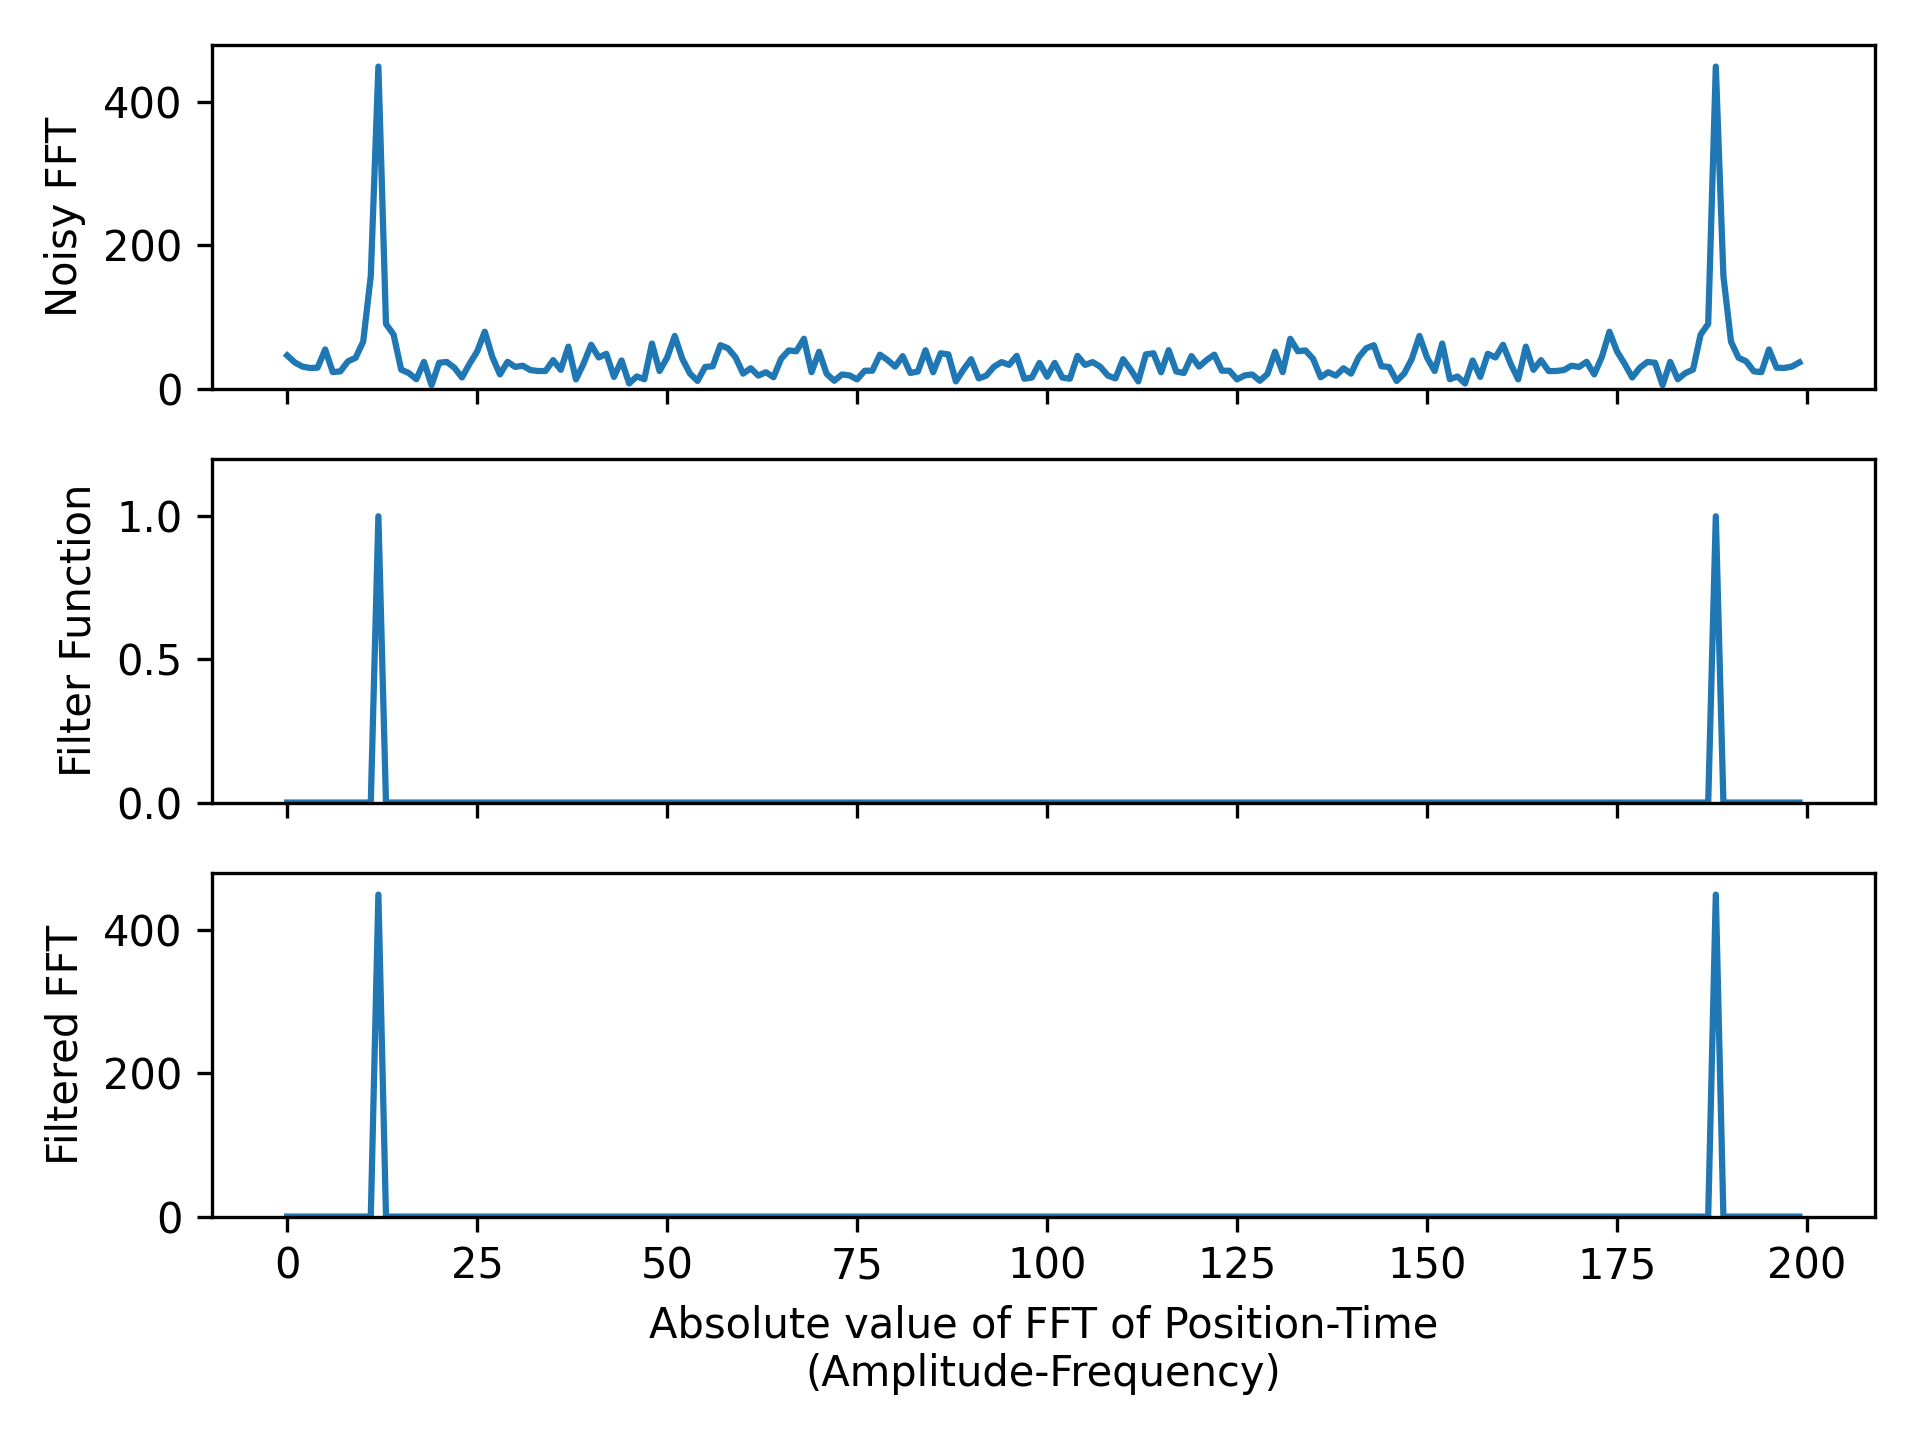
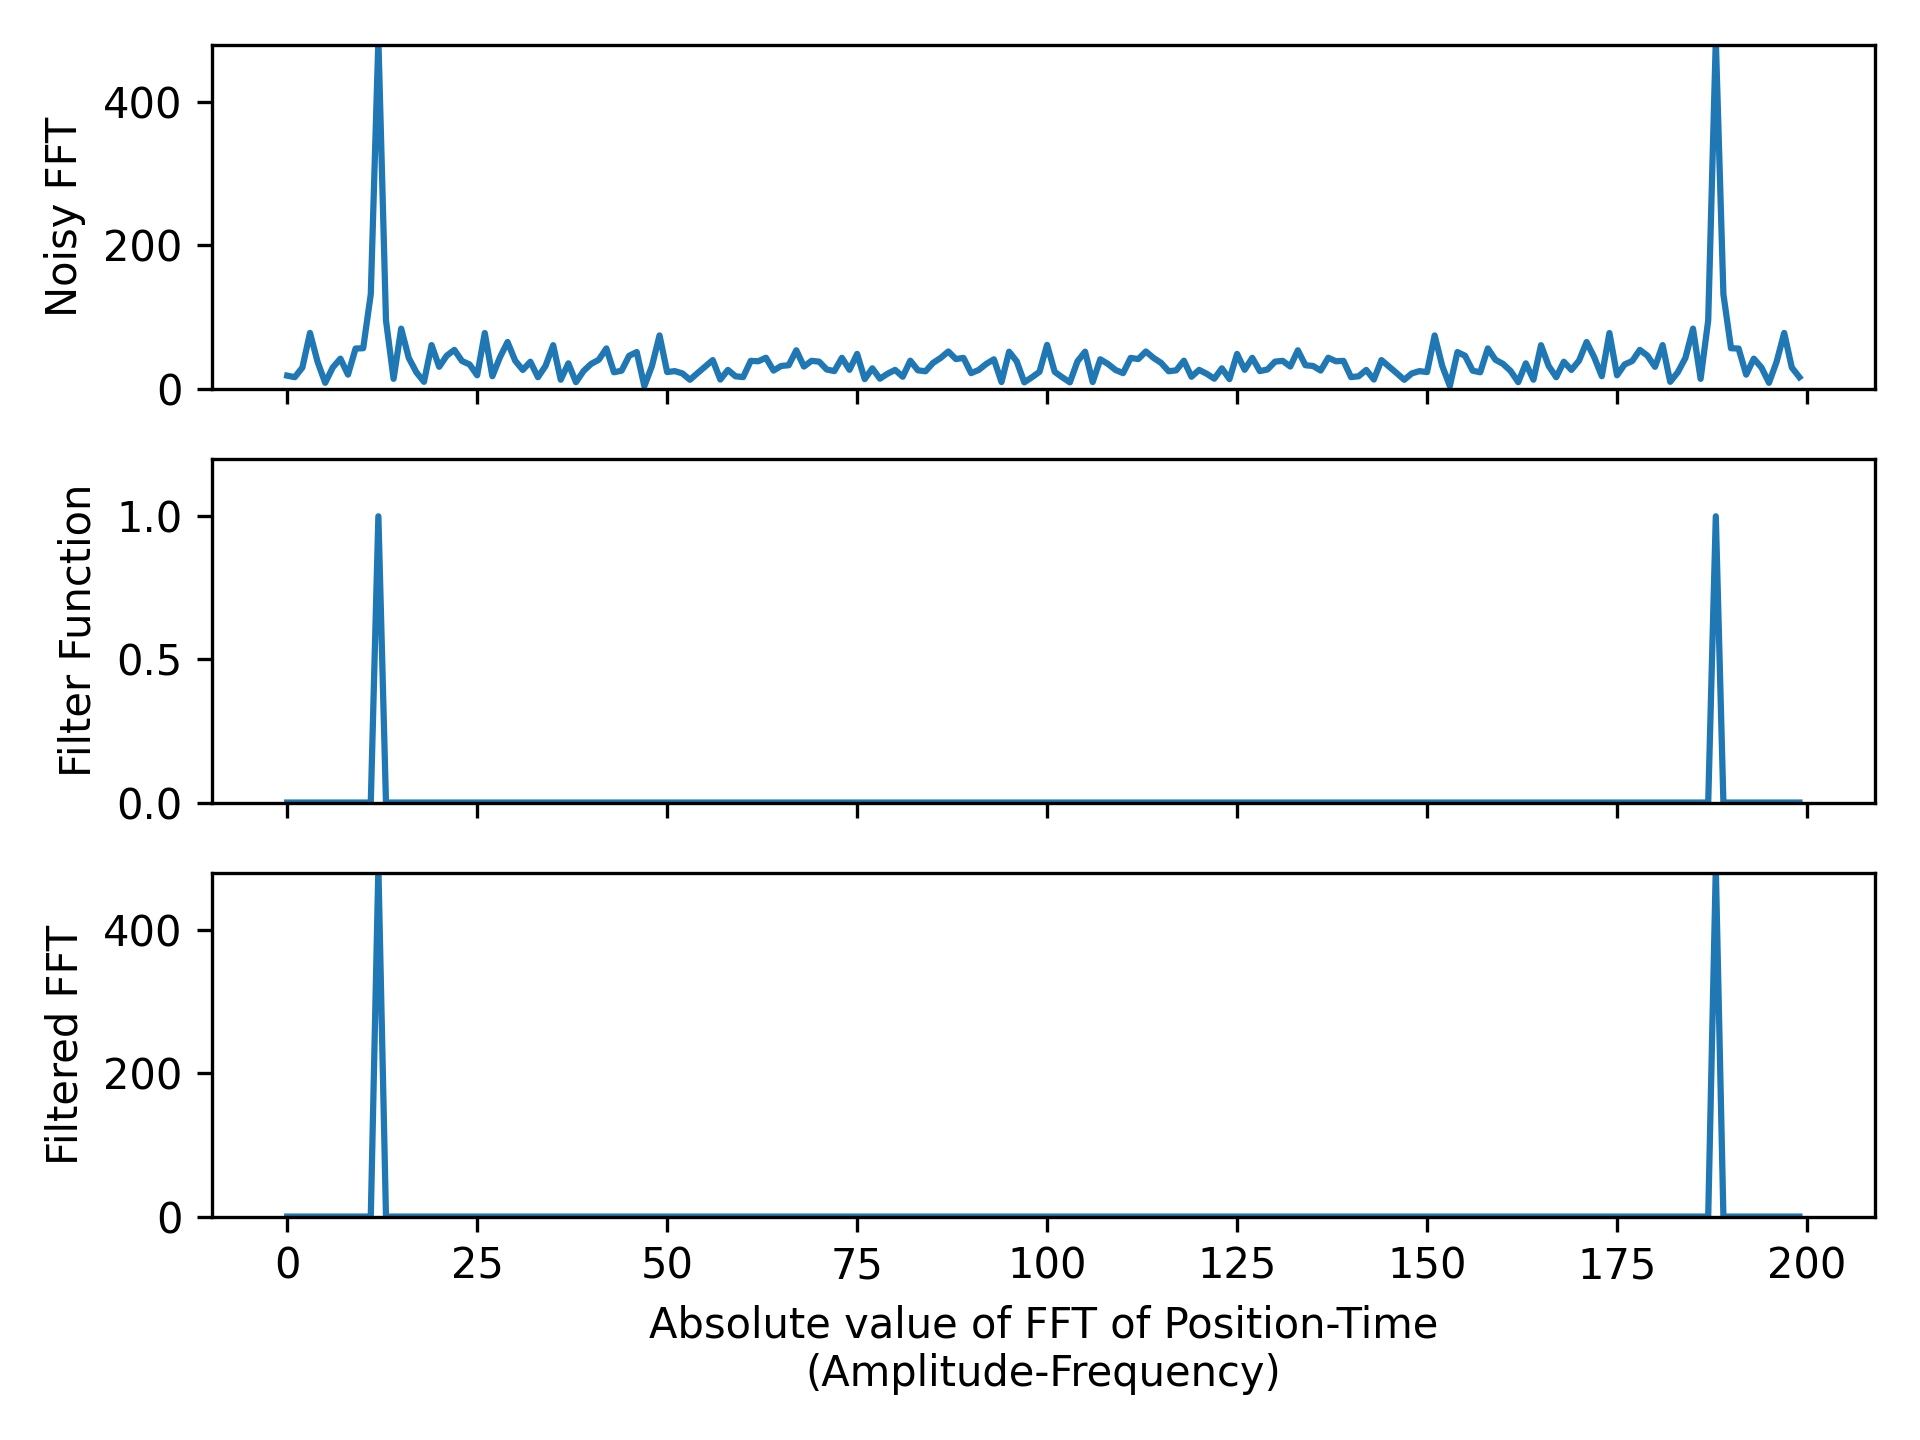
update

Changed region(s): [[0.1562, 0.1875, 0.9375, 0.2812]]

diff --git a/Computational Project- Fast Fourier Transforms (FFT)/exericse 1_v2.py b/Computational Project- Fast Fourier Transforms (FFT)/exericse 1_v2.py
@@ -1,11 +1,14 @@
-# Computational Lab - Exercise 1
-# Alex Zeng, 1007099373, Jan 20th 2023
+"""
+Alex Zeng, 1007099373, Jan 20th 2023
+Computational Lab - Section 1: fast Fourier transform
+"""
+
+
 from numpy import imag
 from numpy.fft import fftfreq
 
 save=True # if True then we save images as files
 
-from random import gauss
 import matplotlib.pyplot as plt
 import numpy as np
 
@@ -25,24 +28,29 @@ x = y1      # sine wave 1
 y = y2      # sine wave 2
 z = y1 + y2     # combiniation of sine wave 1 and 2
 
-z1=np.fft.fft(x)
-z2=np.fft.fft(y)
-z3=abs(np.fft.fft(z))
-# z3 peak at 10, 15
+z1=abs(np.fft.fft(x))
+z2=abs(np.fft.fft(y))
+z3=abs(np.fft.fft(z))       # z3 peak at 10, 15
 # take the Fast Fourier Transforms of both x and y
 """
-once you take the fft, you can see 
+FFT It converts a signal into individual spectral components and 
+thereby provides frequency information about the signal.
+
+now go check out which "index is peaking"
+
+then use fftfreq to findout which frequency that index represents 
+
+QUESTIONS: what are the units of the fft diagram then?
+
 """
 
 fig, ( (ax1,ax2), (ax3,ax4), (ax5,ax6) ) = plt.subplots(3,2,sharex='col',sharey='col')
 
 # ploting the graphs
 ax1.plot(time,x)
-ax2.plot(np.abs(z1))
-
+ax2.plot(z1)
 ax3.plot(time,y)
-ax4.plot(np.abs(z2))
-
+ax4.plot(z2)
 ax5.plot(time,z)
 ax6.plot(z3)
 
@@ -56,22 +64,25 @@ ax3.set_ylim(-13,13)
 ax4.set_ylim(0,600)
 ax1.set_ylabel('Wave #1')
 ax3.set_ylabel('Wave #2')
-ax5.set_ylabel('Combining both waves')
+ax5.set_ylabel('Combining Both Waves')
 
 mydpi=300
 plt.tight_layout()
-
-if (save): plt.savefig('ex1_TwoWavesCombineWithFFT.png',dpi=mydpi)
+if (save): plt.savefig('section1_TwoWavesCombineWithFFT.png',dpi=mydpi)
 plt.show()
 
 ############################################################################################
+# finding the frequencies and relative amplitudes
 
 # calculating the frequencies
 n1 = len(z)
-
 delta = 1
-# Calculate frequencies of the transform in Hz
-freq1 = fftfreq(n1, delta)
+freq1 = fftfreq(n1, delta)      # Calculate frequencies of the transform in Hz
 # freq are 0.05 and 0.075 in Hz
-w = 2 * np.pi * freq1
-# freq are 0.31416 and 0.47124 in rad/s
+w = 2 * np.pi * freq1       # freq are 0.31416 and 0.47124 in rad/s
+
+# calculating the amplitude
+amp = 1 / N * z3
+
+
+

diff --git a/Computational Project- Fast Fourier Transforms (FFT)/exericse 4.py b/Computational Project- Fast Fourier Transforms (FFT)/exericse 4.py
@@ -1,0 +1,40 @@
+"""
+Alex Zeng, 1007099373, Jan 20th 2023
+Computational Lab - Section 4
+Studying the FFT of a sine function with time dependent frequency
+"""
+
+
+
+from numpy.fft import fftfreq
+import matplotlib.pyplot as plt
+import numpy as np
+
+save=True # if True then we save images as files
+
+N=100   # N is how many data points we will have in our sine wave
+dt=100
+time=np.linspace(0,N,dt)
+
+A = 1
+# w = t/4
+y = A * np.sin(time * (time/400))
+
+# calculating the FFT
+y_fft = abs(np.fft.fft(y))
+
+# ploting the graphs
+fig, (ax1,ax2) = plt.subplots(1,2,sharex='col',sharey='col')
+ax1.plot(time,y)
+ax1.set_ylabel("y")
+ax1.set_xlabel("Time [s]")
+ax2.plot(y_fft)
+ax2.set_ylabel("FFT(y)")
+ax2.set_xlabel("Time [s]")
+plt.show()
+
+# saving the graph
+mydpi=300
+plt.tight_layout()
+if(save): plt.savefig('section4_TimeVaryingSingleWaveAndFFT.png',dpi=mydpi)
+plt.show()

diff --git a/Computational Project- Fast Fourier Transforms (FFT)/pickle-example-v2.py b/Computational Project- Fast Fourier Transforms (FFT)/pickle-example-v2.py
@@ -93,11 +93,11 @@ freq1 = fftfreq(n1, delta)
 w1 = 2 * np.pi * freq1      # Convert to angular frequencies
 
 print("w1: max frequency is ", np.argmax(abs(data_fft[0:2000])),
-      "with the amplitude being ",  max(abs(data_fft[0:2000])))
+      "with the power being ",  max(abs(data_fft[0:2000])))
 print("w1: max frequency is ", np.argmax(abs(data_fft[0:280])),
-      "with the amplitude being ",  max(abs(data_fft[0:280])))
+      "with the power being ",  max(abs(data_fft[0:280])))
 print("w1: max frequency is ", np.argmax(abs(data_fft[0:150])),
-      "with the amplitude being ",  max(abs(data_fft[0:150])))
+      "with the power being ",  max(abs(data_fft[0:150])))
 
 
 M=len(data_fft)       # length of x, with noise

diff --git a/Computational Project- Fast Fourier Transforms (FFT)/exercise 2.py b/Computational Project- Fast Fourier Transforms (FFT)/exercise 2.py
@@ -84,10 +84,8 @@ freq=np.arange(M)  # frequency values, like time is the time values
 width= 0.001  # width=2*sigma**2 where sigma is the standard deviation
 peak=12    # ideal value is approximately N/T1
 
-print("std", width)
-
 filter_function=(np.exp(-(freq-peak)**2/width)+np.exp(-(freq+peak-M)**2/width))
-z_filtered = abs(z2) * filter_function
+z_filtered = z2 * filter_function
 """
 we choose Gaussian filter functions, fairly wide, with
 one peak per spike in our FFT graph
